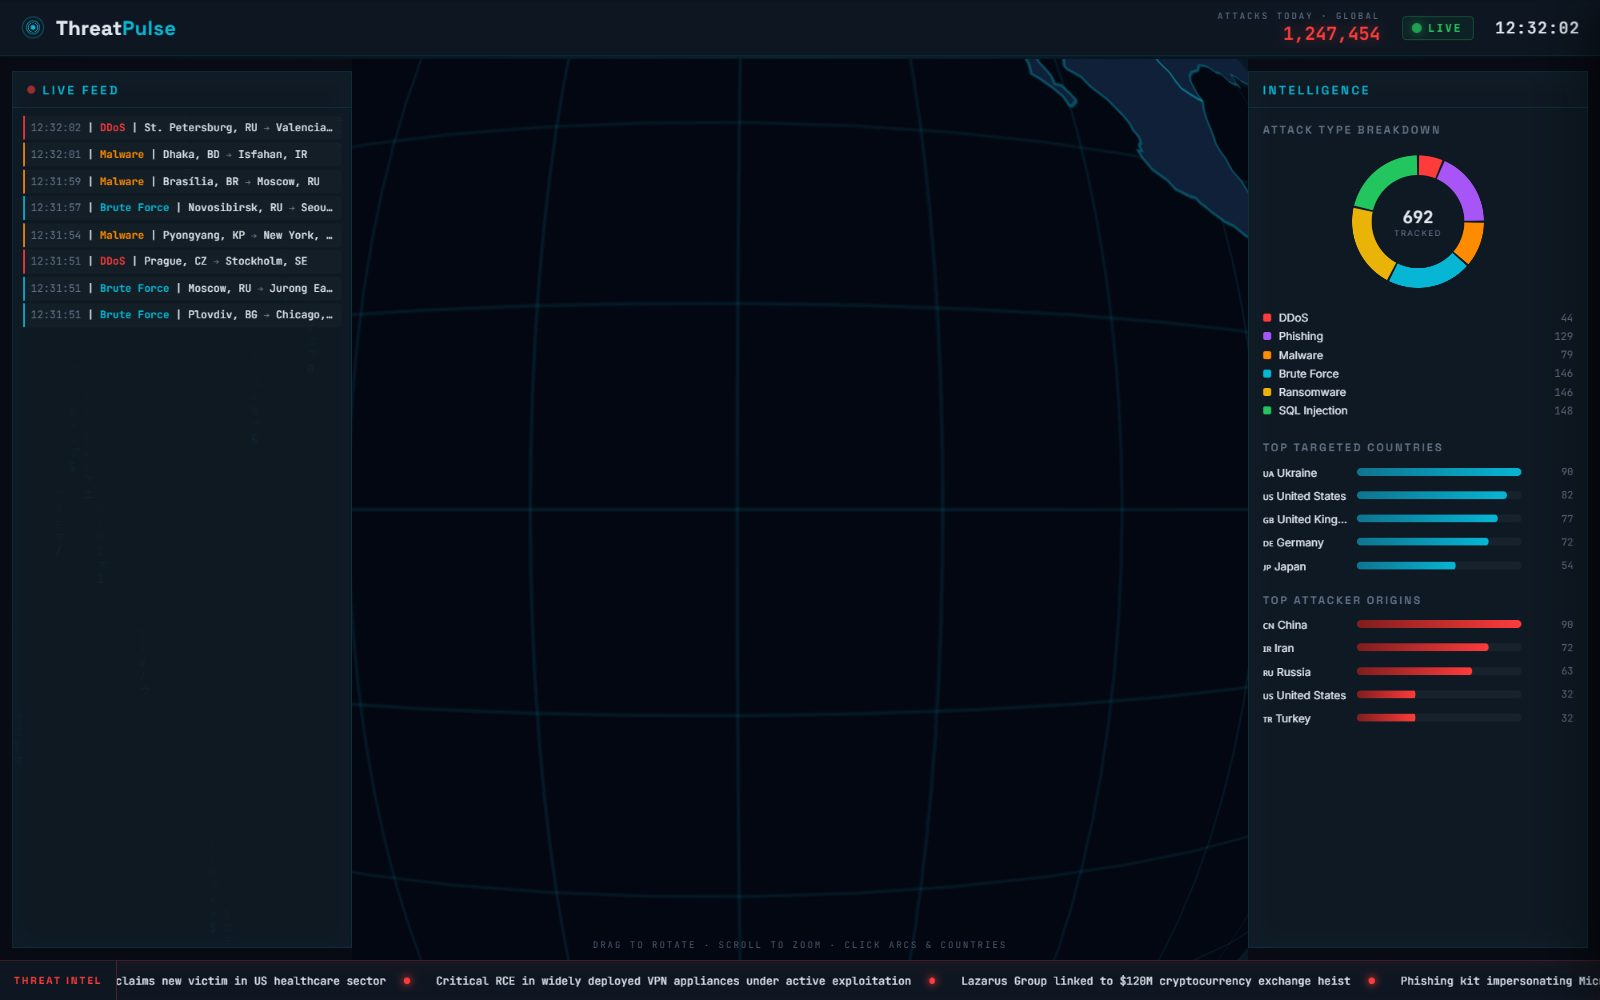
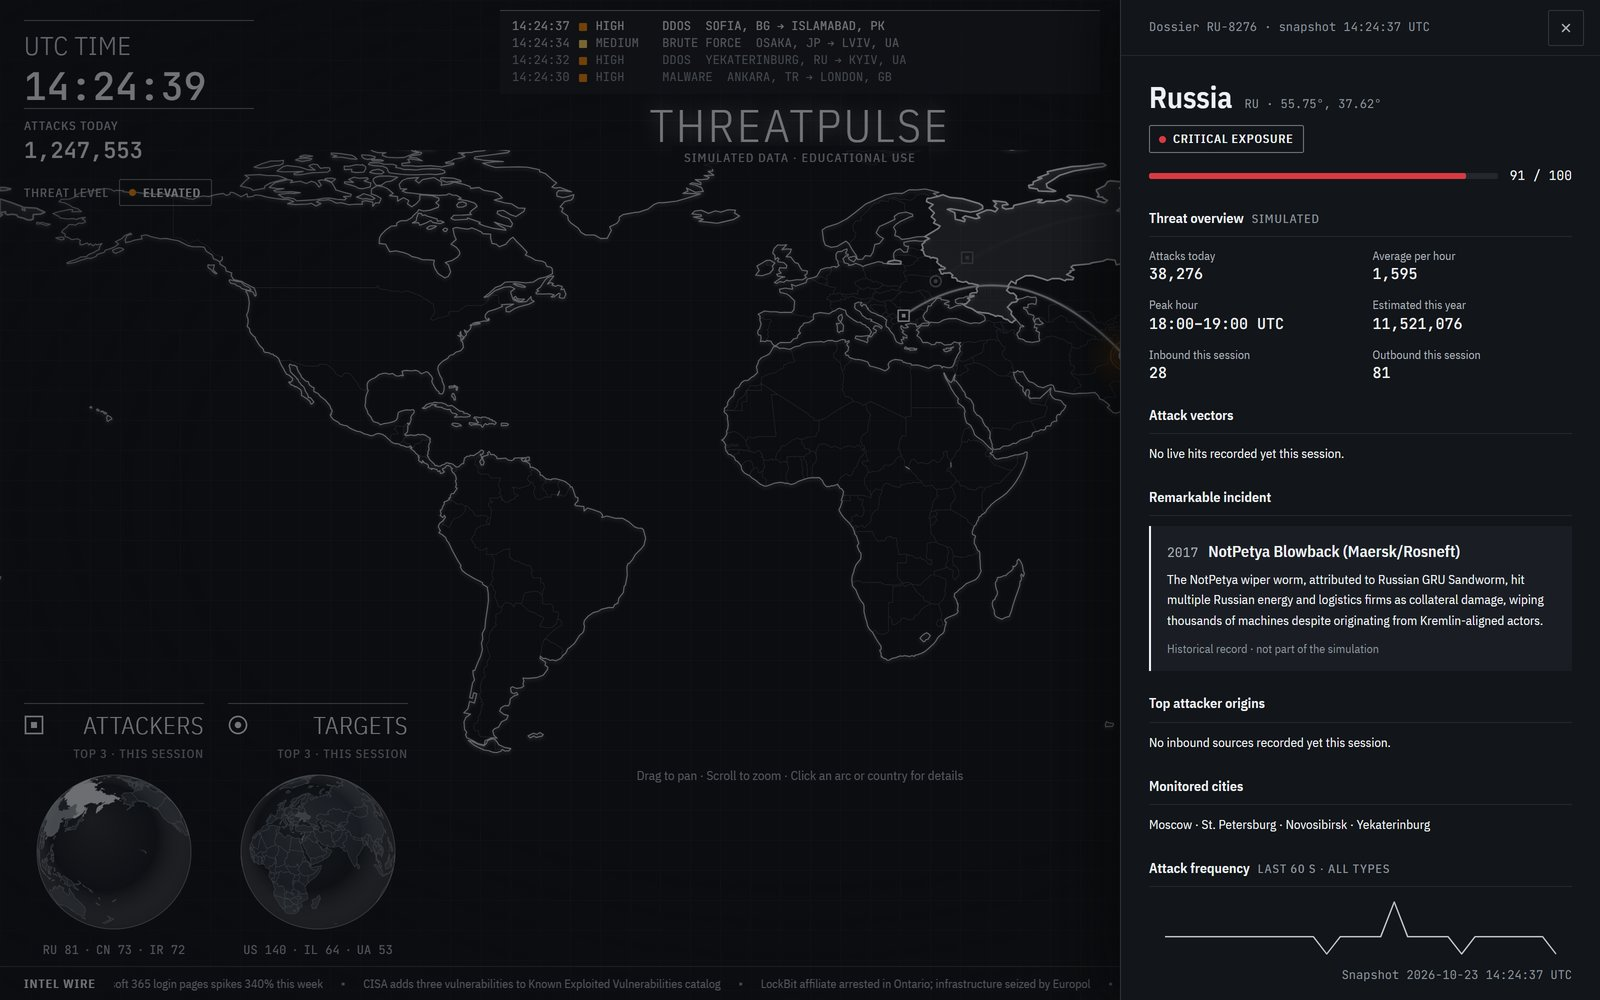
Update ThreatPulse screenshots and Google AI Essentials certificate
New screenshots from the redesigned flat-map ThreatPulse site, with the
featured-story copy and alt text updated to match (map, attack log,
intel panel, country dossier). Restores the "Google AI Essentials"
certificate name from the old site.

diff --git a/src/content.ts b/src/content.ts
@@ -66,44 +66,44 @@ export const hero = {
 export const featured = {
   label: "Featured project",
   name: "Threat-Pulse",
-  headline: "Every attack on one globe.",
+  headline: "Every attack on one map.",
   steps: [
     {
       title: "A live map of cyberattacks.",
-      body: "A real-time, simulated feed of attacks between countries, drawn as arcs on a 3D globe with a running counter.",
+      body: "A real-time, simulated feed of attacks between countries, drawn as arcs on a world map with a running counter.",
       media: {
         src: "/images/threatpulse-01.jpg",
-        alt: "Threat-Pulse dashboard with the globe, live feed and intelligence panel",
+        alt: "Threat-Pulse dashboard with the world map, live ticker, top attackers and targets, and attack type breakdown",
         width: 1600,
         height: 1000,
       },
     },
     {
       title: "Every event, as it lands.",
-      body: "The live feed logs each attack with its time, type, origin and target, colour-coded by attack type.",
+      body: "The attack log records each attack with its time, severity, type, origin and target, colour-coded by severity.",
       media: {
         src: "/images/threatpulse-04.jpg",
-        alt: "Close-up of the Threat-Pulse live feed listing phishing, malware, brute force and DDoS events",
+        alt: "Close-up of the Threat-Pulse attack log listing DDoS, phishing, malware and brute force events",
         width: 1600,
         height: 1000,
       },
     },
     {
       title: "Read the pattern.",
-      body: "The intelligence panel breaks attacks down by type, with the most targeted countries and the top attacker origins.",
+      body: "The intel panel breaks attacks down by severity and rate, with the most targeted countries and the top attacker origins.",
       media: {
         src: "/images/threatpulse-03.jpg",
-        alt: "Close-up of the Threat-Pulse intelligence panel with the attack type breakdown and top targeted countries",
+        alt: "Close-up of the Threat-Pulse intel panel with the severity breakdown, attack rate and most targeted countries",
         width: 1600,
         height: 1000,
       },
     },
     {
       title: "Built to teach.",
-      body: "Drag to rotate, scroll to zoom, click arcs and countries. Plain HTML and JavaScript, made for threat-intelligence visualization and education.",
+      body: "Drag to pan, scroll to zoom, click a country to open its dossier with real historical incidents. Plain HTML and JavaScript, made for threat-intelligence visualization and education.",
       media: {
         src: "/images/threatpulse-02.jpg",
-        alt: "Threat-Pulse globe zoomed in, with the panels around it",
+        alt: "Threat-Pulse country dossier for Russia, with its exposure score, threat overview and a historical incident",
         width: 1600,
         height: 1000,
       },
@@ -199,7 +199,7 @@ export const about = {
   certificatesLabel: "Certifications",
   certificates: [
     "What Is Generative AI? · LinkedIn Learning",
-    "Introduction to AI · Google on Coursera",
+    "Google AI Essentials · Google on Coursera",
     "Scientific Computing with Python · freeCodeCamp",
     "Mint Ambassadors Project · iCareer",
   ],
